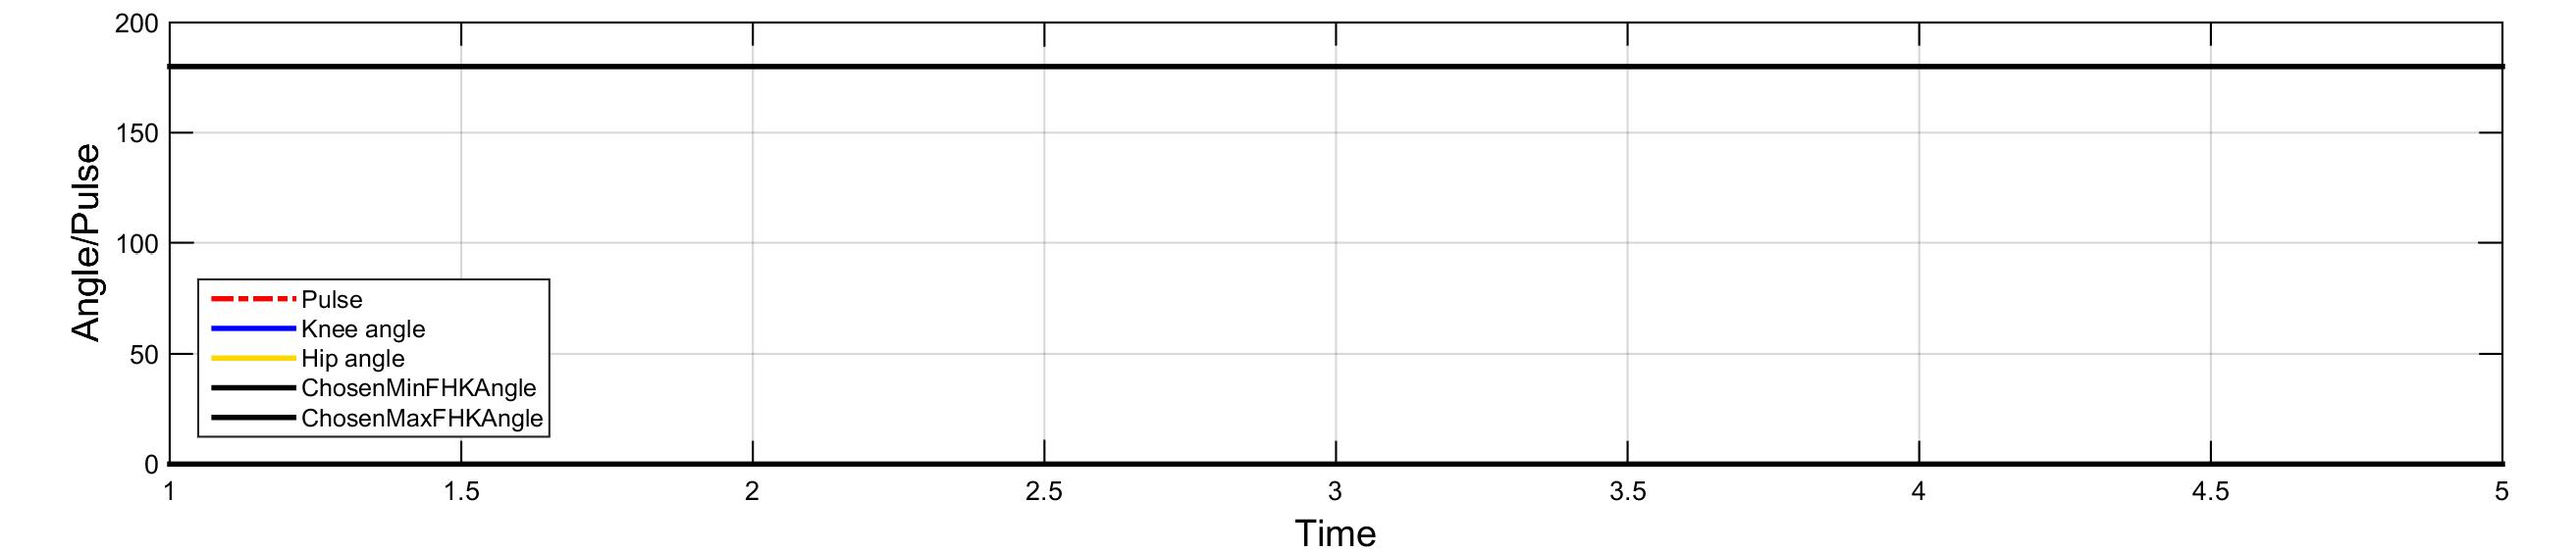
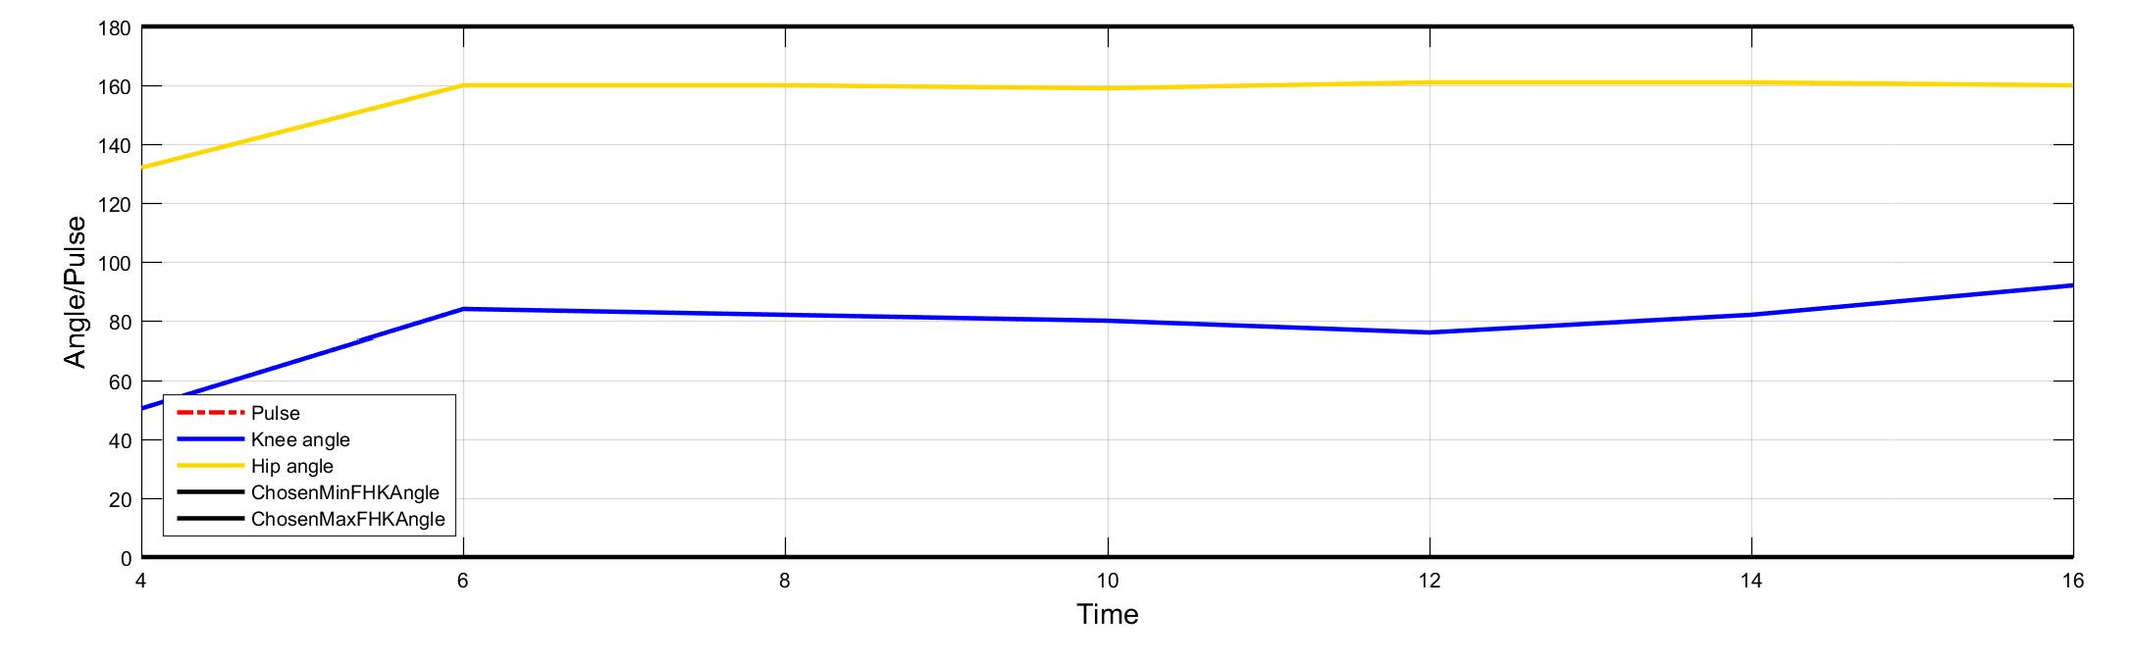
här jesper!

diff --git a/RoadRunners/SkeletonBasics-WPF/MainWindow.xaml b/RoadRunners/SkeletonBasics-WPF/MainWindow.xaml
@@ -21,6 +21,7 @@
         <Grid.RowDefinitions>
             <RowDefinition Height="642.666666666667"/>
         </Grid.RowDefinitions>
+        <WpfViewers:KinectColorViewer HorizontalAlignment="Left" Height="265" Margin="734,17,0,0" VerticalAlignment="Top" Width="501" Kinect="{Binding Kinect, ElementName=kinectSensorChooser}"/>
         <DockPanel Grid.Row="0" Margin="0,0,0.333,642.667"/>
         <Viewbox Stretch="Uniform" Margin="729,17,27,362">
             <Image x:Name="Image" Width="436" Height="229"/>
@@ -37,7 +38,6 @@
         </Button>
         <Slider x:Name="slider" HorizontalAlignment="Left" Margin="961,608,0,0" VerticalAlignment="Top" Height="27" Width="146" Maximum="26" Minimum="-26" ValueChanged="slider_ValueChanged"/>
         <Label x:Name="Degree" Content="0" HorizontalAlignment="Left" Margin="1112,608,0,0" VerticalAlignment="Top" RenderTransformOrigin="0.5,0.615" Foreground="Black" Width="30"/>
-        <WpfViewers:KinectColorViewer HorizontalAlignment="Left" Height="265" Margin="734,17,0,0" VerticalAlignment="Top" Width="501" Kinect="{Binding Kinect, ElementName=kinectSensorChooser}" Opacity="0.6"/>
         <WpfViewers:KinectSensorChooser x:Name="kinectSensorChooser" HorizontalAlignment="Left" Margin="860,47,0,0" VerticalAlignment="Top"/>
         <Image x:Name="vinkelImage" HorizontalAlignment="Left" Height="207" Margin="27,314,0,0" VerticalAlignment="Top" Width="1208"  />
         <TextBlock x:Name="velocityText" HorizontalAlignment="Left" Margin="179,30,0,0" TextWrapping="Wrap" VerticalAlignment="Top" Height="27" Width="100" FontSize="20" FontWeight="Medium" Foreground="#FFBCF5FF" Text="Velocity"/>
@@ -62,7 +62,7 @@
                 </LinearGradientBrush>
             </Button.Background>
         </Button>
-        <TextBlock x:Name="textTestdirektiv" FontSize="18" TextAlignment="Center" FontWeight="Bold" Foreground="#FFBCF5FF" HorizontalAlignment="Left" Margin="-39,526,0,0" TextWrapping="Wrap" VerticalAlignment="Top" Width="286" Height="68"><Run Text="....................."/><Run Text=".."/><LineBreak/><Run/></TextBlock>
+        <TextBlock x:Name="textTestdirektiv" FontSize="18" TextAlignment="Center" FontWeight="Bold" Foreground="#FFBCF5FF" HorizontalAlignment="Left" Margin="259,554,0,0" TextWrapping="Wrap" VerticalAlignment="Top" Width="286" Height="68"><Run Text="....................."/><Run Text=".."/><LineBreak/><Run/></TextBlock>
         <Button x:Name="display_heartrate" Content="Display Heartrate" HorizontalAlignment="Left" Margin="16,49,0,0" VerticalAlignment="Top" Width="120" Click="display_heartrate_Click" Height="27">
             <Button.Background>
                 <LinearGradientBrush EndPoint="0,1" StartPoint="0,0">

diff --git a/RoadRunners/SkeletonBasics-WPF/SaveData.xaml b/RoadRunners/SkeletonBasics-WPF/SaveData.xaml
@@ -15,7 +15,7 @@
             <ColumnDefinition/>
         </Grid.ColumnDefinitions>
         <Grid.Background>
-            <ImageBrush ImageSource="Images/back.png" Stretch="None"/>
+            <ImageBrush ImageSource="Images/bakgrundsbilden.jpg" Stretch="Fill"/>
         </Grid.Background>
         <Button x:Name="SaveButtonExcel" Content="Save" HorizontalAlignment="Left" VerticalAlignment="Top" Width="102" Margin="51,244,0,0" Click="Save_Click">
             <Button.Background>
@@ -37,7 +37,7 @@
                 </LinearGradientBrush>
             </Button.Background>
         </Button>
-        <TextBlock x:Name="textBlock" HorizontalAlignment="Left" Height="29" Margin="118,23,0,0" TextWrapping="Wrap" Text="Save data" VerticalAlignment="Top" Width="117" FontSize="14" Foreground="#FFBCF5FF"/>
+        <TextBlock x:Name="textBlock" HorizontalAlignment="Left" Height="29" Margin="10,10,0,0" TextWrapping="Wrap" Text="Save data" VerticalAlignment="Top" Width="117" FontSize="14" Foreground="#FFBCF5FF"/>
 
     </Grid>
 </Window>

diff --git a/RoadRunners/SkeletonBasics-WPF/MainWindow.xaml.cs b/RoadRunners/SkeletonBasics-WPF/MainWindow.xaml.cs
@@ -778,7 +778,7 @@ namespace Microsoft.Samples.Kinect.SkeletonBasics
         }
 
         // Skickar vinklar och puls till matlab och plottas sedan
-        private void printMatLab(List<double> list1, List<double> list2, List<double> list3, List<double> list4)
+        private void printMatLab(List<double> list1, List<double> list2, List<double> list3, List<double> list4, List<double> list5, List<double> list6)
         {
             // Change to the directory where the function is located 
             var path = Path.Combine(Directory.GetCurrentDirectory());
@@ -792,7 +792,7 @@ namespace Microsoft.Samples.Kinect.SkeletonBasics
             try
             {
                 //Matlabfunktionen sparar pulsen till en textfil
-                matlab.Feval("myfunc", 0, out result, list1.ToArray(), list2.ToArray(), list3.ToArray(), list4.ToArray());
+                matlab.Feval("myfunc", 0, out result, list1.ToArray(), list2.ToArray(), list3.ToArray(), list4.ToArray(), list5.ToArray(), list6.ToArray());
             }
             catch (System.Runtime.InteropServices.COMException)
             {
@@ -806,7 +806,7 @@ namespace Microsoft.Samples.Kinect.SkeletonBasics
             if (timeList.Count > plotCounter)
             {
 
-                plotAnglesThread = new Thread(() => printMatLab(timeList, meanList_pulse, meanList_FHK, meanList_SHK));
+                plotAnglesThread = new Thread(() => printMatLab(timeList, meanList_pulse, meanList_FHK, meanList_SHK, ChosenMinFHKAngleList, ChosenMaxFHKAngleList));
                 plotAnglesThread.Start();
 
                 CompositionTargetRendering();
@@ -990,8 +990,9 @@ namespace Microsoft.Samples.Kinect.SkeletonBasics
             meanList_FHK.Clear();
             velocityListDatabase.Clear();
 
-         //   plotAnglesThread = new Thread(() => printMatLab(timeList, nullList, nullList, nullList, nullList, nullList));
-         //   plotAnglesThread.Start();
+            plotAnglesThread = new Thread(() => printMatLab(timeList, nullList, nullList, nullList, nullList, nullList));
+            plotAnglesThread.Start();
+                    CompositionTargetRendering();
 
             counter = saveData.ReturnTestLength();
 

diff --git a/RoadRunners/SkeletonBasics-WPF/myfunc.m b/RoadRunners/SkeletonBasics-WPF/myfunc.m
@@ -52,7 +52,7 @@ legend1 = legend(axes1,'show');
 set(legend1,'Location','southwest','FontSize',9);
 
 figure1.PaperUnits = 'inches';
-figure1.PaperPosition = [0 0 17.5 3.75];
+figure1.PaperPosition = [0 0 14.5 4.5];
 
 saveas(figure1, 'Vinkelgraf.jpeg');
 close(figure1);
@@ -89,7 +89,7 @@ legend1 = legend(axes1,'show');
 set(legend1,'Location','southwest','FontSize',9);
 
 figure1.PaperUnits = 'inches';
-figure1.PaperPosition = [0 0 17.5 3.75];
+figure1.PaperPosition = [0 0 14.5 4.5];
 
 saveas(figure1, 'Vinkelgraf.jpeg');
 close(figure1);

diff --git a/RoadRunners/SkeletonBasics-WPF/ecgtoheartrate.m b/RoadRunners/SkeletonBasics-WPF/ecgtoheartrate.m
@@ -173,7 +173,7 @@ if (shimmer.connect)                                                       % TRU
                 
 
                 % plotting the data
-                subplot(3,1,3)
+          
                 plot((sampleNumber/fs), heartRate);                             % plot the Heart Rate data
                 legend('Heart Rate (BPM', 'Location', 'West');   
                 xlim([sampleNumber(1)/fs sampleNumber(end)/fs]);
